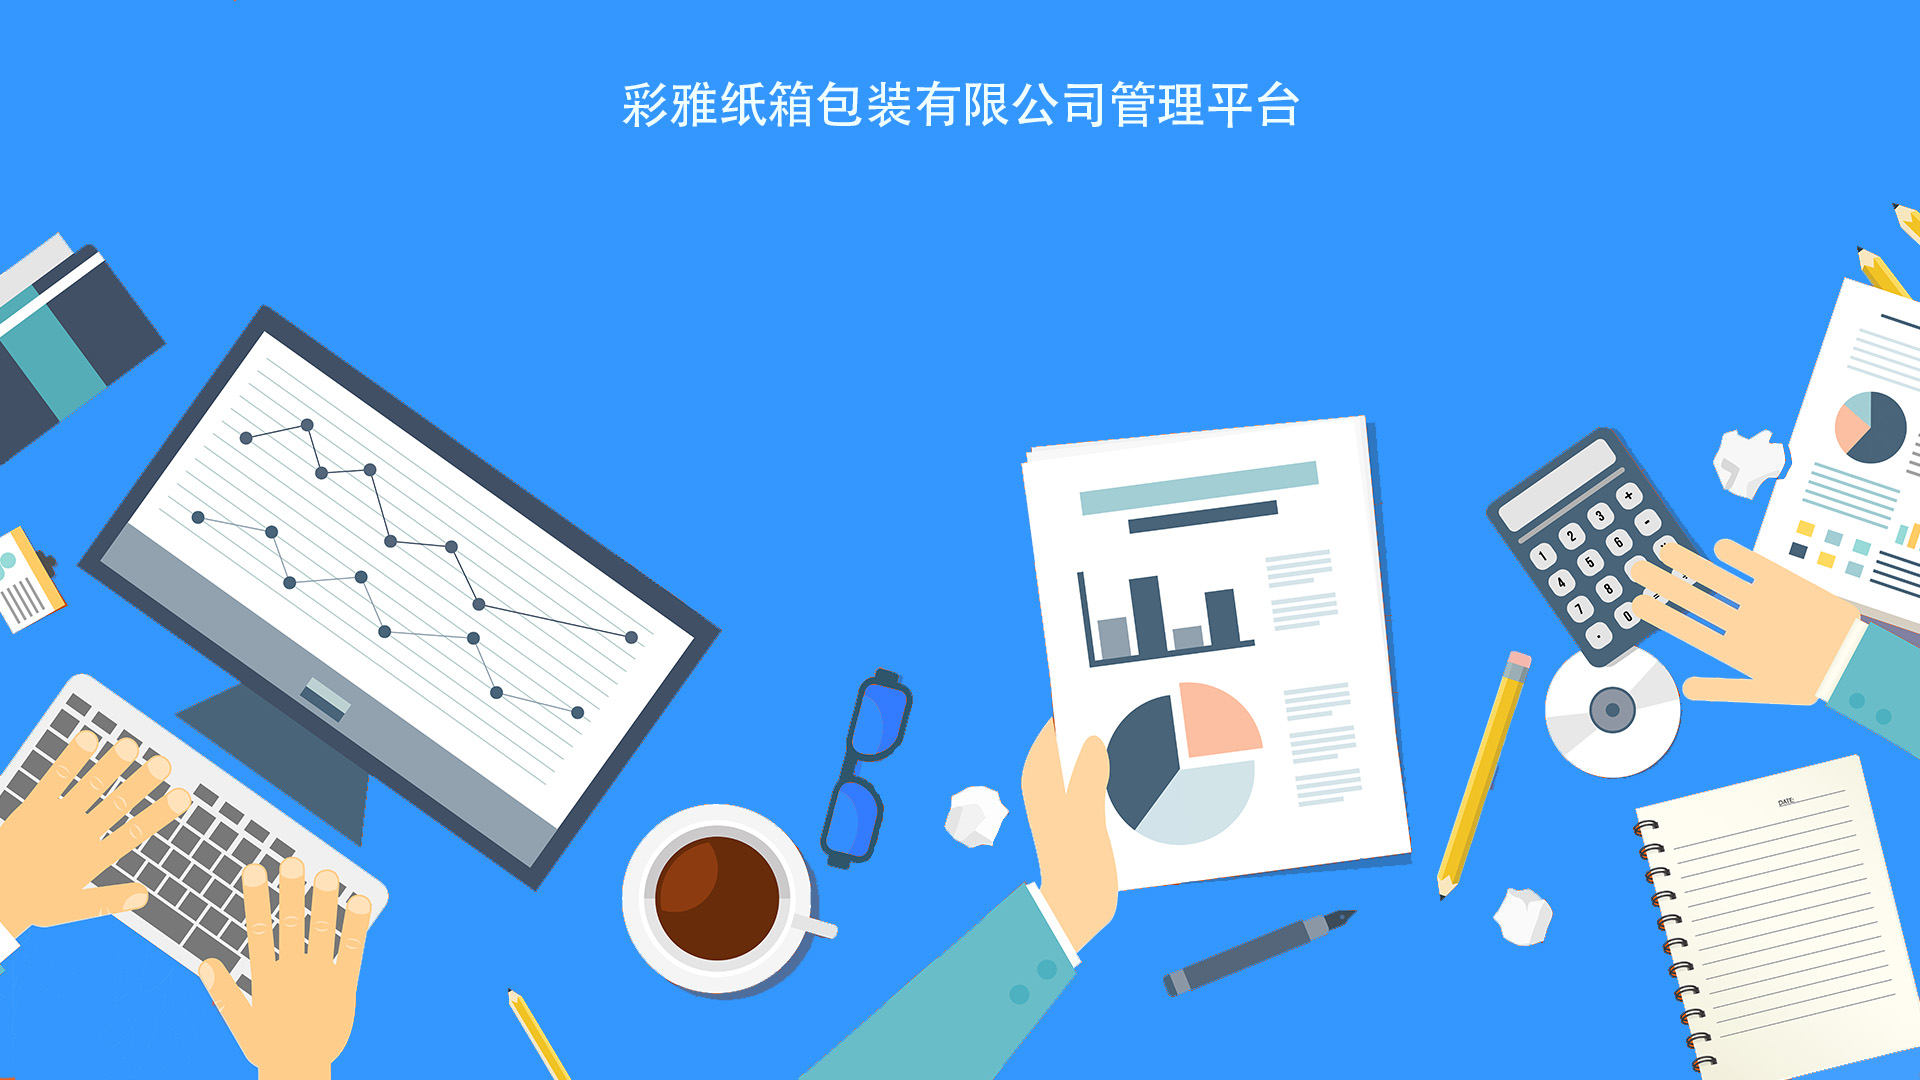
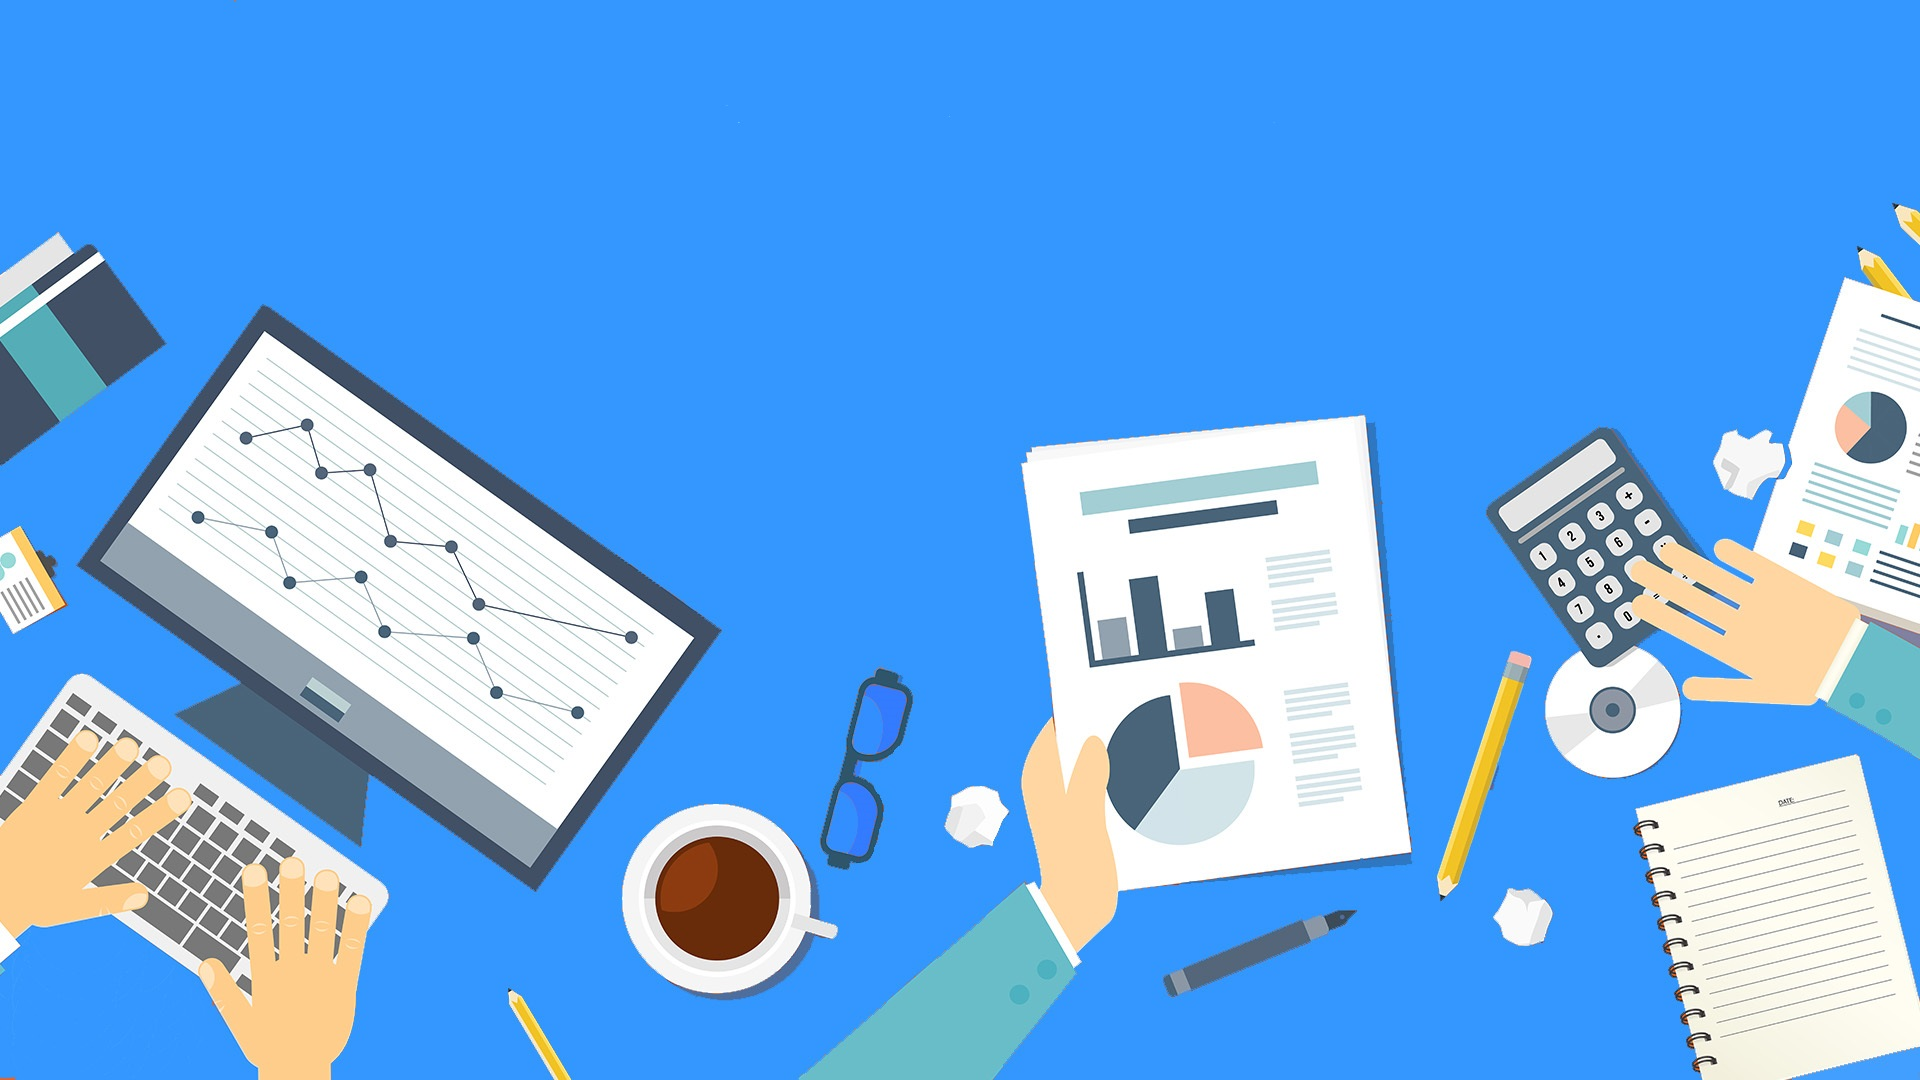
2123

diff --git a/src/views/layout/index.vue b/src/views/layout/index.vue
@@ -1,9 +1,9 @@
 <template>
-	  <el-container style="padding:20px 20px;">
-		 <!-- <el-header style="background:#fff;"> 
+	  <el-container style="padding:20px 20px;background:#eef1f6;">
+		 <el-header style="background:#fff;"> 
 				<myhead></myhead>	
-			</el-header> -->
-		<!-- <el-container style="margin-top:20px;"> -->
+		</el-header>
+		<el-container style="margin-top:20px;">
 			<el-aside width='200px' :style="{'max-height':maxHeight+'px','background':'#fff'}">
 				<!-- <div :style="{'height':maxHeight+'px','width':'190px'}"> -->
 					<!-- <el-scrollbar id="scorll" :style='{"height":maxHeight+"px"}'> -->
@@ -12,19 +12,20 @@
 				<!-- </div> -->
 				
 			</el-aside>
-		
-	    <el-main style="background:#eef1f6;padding:0 15px 0 20px;min-width:1125px;" :style="{'height':maxHeight+'px'}">
-			<el-scrollbar id="scorll" :style='{"height":maxHeight+"px"}'>
-			<el-header style="background:#fff;"> 
-				<myhead></myhead>	
-			</el-header>
-			<transition name="el-fade-in-linear">
-				<router-view   style="background:#fff;padding:20px;margin-top:20px;"/>
-				
-			</transition>
-			</el-scrollbar>
-		</el-main>
-		<!-- </el-container> -->
+		<el-container>
+			<el-main style="padding:0 0px 0 20px;min-width:1125px;" :style="{'height':maxHeight+'px'}">
+				<el-scrollbar id="scorll" :style='{"height":maxHeight+"px"}' style="background:#fff;">
+				<!-- <el-header style="background:#fff;"> 
+					<myhead></myhead>	
+				</el-header> -->
+				<transition name="el-fade-in-linear">
+					<router-view   style="background:#fff;padding:20px"/>
+					
+				</transition>
+				</el-scrollbar>
+			</el-main>
+			</el-container>
+		</el-container>
 			
 	  </el-container>
 <!-- <div class="warpBox">
@@ -50,7 +51,7 @@ export default {
 	mounted(){
 		let size = document.documentElement.clientHeight;
 		console.log(size);
-		this.maxHeight = Number(size)-40;
+		this.maxHeight = Number(size)-120;
 	},
 	data(){
 		return{

diff --git a/src/components/head/index.vue b/src/components/head/index.vue
@@ -1,8 +1,15 @@
 <template>
     <div class="warp">
-        <div style="flex:1"></div>
+        <div style="flex:1" class="center">
+            <div style="width:60px;height:60px;">
+                <img src="../../images/icon.jpg" >
+            </div>
+            <div style="flex:1;font-width:600;font-size:32px;letter-spacing:5px;color:#409eff;">
+               佛山市南海区彩雅纸箱包装有限公司管理平台
+            </div>
+        </div>
         <div class="login">
-            <el-badge :value="notReadNum" :hidden='notReadNum == 0'>
+            <el-badge :value="notReadNum" :hidden='notReadNum == 0' style="margin:0 35px;">
                 <el-dropdown :hide-on-click="false">
                     <span class="el-dropdown-link">
                         信息列表<i class="el-icon-arrow-down el-icon--right"></i>
@@ -28,10 +35,11 @@
                 </el-dropdown>
             </el-badge>
             
-            <div class="avatar">
-                <el-avatar  size="small" src="../../assets/logo.png"></el-avatar>
-            </div>
-            <el-dropdown szie="mini" @command="signOut" >
+            <!-- <div class="avatar">
+                <el-avatar  size="small" src="../../images/icon.jpg"></el-avatar>
+            </div> -->
+            <!-- <div>退出登录</div> -->
+            <el-dropdown szie="mini" @command="signOut" size="medium" >
             <span class="el-dropdown-link">
                 下拉菜单<i class="el-icon-arrow-down el-icon--right"></i>
             </span>

diff --git a/src/views/admin/login/index.vue b/src/views/admin/login/index.vue
@@ -13,8 +13,10 @@
 			</div>
 		</div> -->
 		<img class="backgroundImg" src="@/images/background.jpg" />
+		<div class="center pageTitle">
+			佛山市南海区彩雅纸箱包装有限公司管理平台
+		</div>
 		<div class="login-content">
-			
 			<div class="login-wrap">
 				<ul class="nav">
 					<li :class="{current:tabIndex==0}" @click="tabChange(0)">账号登录</li>
@@ -408,7 +410,18 @@
 		height: 100%;
 		top: 0;
 	}
-
+	.pageTitle{
+		font-size: 44px;
+		width: 80%;
+		font-weight: 600;
+		color: #fff;
+		position: fixed;
+		z-index: 1;
+		transform: translateX(-50%);
+		left: 50%;
+		top: 20%;
+		letter-spacing:5px;
+	}
 	.login {
 		position: relative;
 		width: 100%;
@@ -457,10 +470,10 @@
 		.login-content {
 			position: absolute;
 			background: rgb(51,138,254);
-			height: 250px;
-			top: 50%;
+			height: 350px;
+			top: 30%;
 			left: 50%;
-			transform: translate(-50%,-50%);
+			transform: translateX(-50%);
 			z-index: 10;
 			border-radius: 10px;
 			box-shadow:rgba(35,107,181,.6) 10px 10px 5px;
@@ -468,7 +481,7 @@
 				// position: absolute;
 				// top: 20%;
 				// right: 10%;
-				width: 300px;
+				width: 400px;
 				// background: transparent;
 				
 				z-index: 10;
@@ -512,7 +525,7 @@
 							outline: none;
 							border: none;
 							padding: 0 10px;
-							
+							margin-right: 10px;
 					}
 					.infoInp {
 						margin-top: 10px;
@@ -539,7 +552,7 @@
 
 				.userLogin {
 					width: 260px;
-					margin: 0 auto;
+					margin: 30px auto;
 
 					.forget {
 						

diff --git a/src/views/placeOrder/index.vue b/src/views/placeOrder/index.vue
@@ -336,8 +336,8 @@
           <el-button type="primary" @click="addItem(2)" icon="el-icon-edit">新增</el-button>
         </div>
         <el-form size="mini" inline label-width="120px" style="padding:20px">
-          <el-form-item v-for="(item,index) in other" :key="index">
-            <el-form-item label="费用备注:">
+          <el-form-item v-for="(item,index) in other" :key="index" >
+            <el-form-item label="费用备注:" style='display:block'> 
               <el-select v-model="item.remarkKey" placeholder="请选择">
                 <el-option
                   v-for="item in costRemake"
@@ -348,7 +348,7 @@
               </el-select>
               <!-- <el-input v-model.trim="item." placeholder="备注"></el-input> -->
             </el-form-item>
-            <el-form-item label="费用:" class="form-inline">
+            <el-form-item label="费用:" class="form-inline"  style='display:block'>
               <el-input v-model.number="item.psCost" placeholder="费用"></el-input>
             </el-form-item>
             <div style="text-align: right;">

diff --git a/src/components/nav/index.vue b/src/components/nav/index.vue
@@ -3,10 +3,12 @@
 		
 			<div class="mine-info center">
 				<div class="image center" >
-					<i size="medium" class="el-icon-user-solid"></i>
+					<!-- <i size="medium" class="el-icon-user-solid"></i>
+					 -->
+					 <img src="../../images/icon.jpg" alt="">
 				</div>
 				<div class="info">
-					<div>彩雅包装</div>
+					<div>我的专区</div>
 					<!-- <div>info</div> -->
 				</div>
 			</div>
@@ -260,11 +262,13 @@ import {userMenu} from '@/api/menu'
 		    border-right: 1px solid #e6e6e6;
 		.mine-info{
 			padding: 20px;
+			background: rgb(64, 158, 255);
 			.image{
 				width: 50px;
 				height: 50px;
 				border-radius: 50%;
 				background: rgb(41,151,255) ;
+				overflow: hidden;
 				.el-icon-user-solid{
 					font-size:32px;
 					color:#fff;
@@ -272,7 +276,9 @@ import {userMenu} from '@/api/menu'
 				// overflow: hidden;
 			}
 			.info{
+				color: #fff;
 				padding: 0 5px;
+				font-size: 24px;
 			}
 		}
 		.nav{

diff --git a/src/views/order/index.vue b/src/views/order/index.vue
@@ -86,7 +86,7 @@
         <el-button type="warning"  @click="exportOrder">导出订单</el-button>
       </div>
     <div class="table">
-      <el-table :data="tableData" fit  tooltip-effect="dark" v-loadmore="load" height='500' @selection-change="handleSelectionChange">
+      <el-table :data="tableData" fit  tooltip-effect="dark" v-loadmore="load" height='650' @selection-change="handleSelectionChange">
          <el-table-column
           type="selection"
           width="55">
@@ -443,9 +443,12 @@ export default {
 
     async getList(){
       try {
-        this.loading = true;
-        let res = await orderList(this.searchValue);
+       
+        
         if(this.tableData.length <this.total){
+          this.loading = true;
+          let res = await orderList(this.searchValue);
+           
            res.data.map((item)=>{
             item.visible = false;
             item.visibleF = false;

diff --git a/src/main.js b/src/main.js
@@ -17,10 +17,11 @@ Vue.directive('loadmore', {
     const selectWrap = el.querySelector('.el-table__body-wrapper')
     selectWrap.addEventListener('scroll', function() {
       let sign = 0;
-    
-      // console.log(this.scrollWidth,this.clientWidth,this)
-      const scrollDistance = this.scrollHeight - this.scrollTop - this.clientHeight
-      if (scrollDistance <= sign&&!this.scrollLeft) {
+      // let wSign = Number(this.scrollWidth)-Number(this.scrollLeft)<this.scrollWidth?false:true;
+      // console.log(wSign)
+      const scrollDistance = this.scrollHeight - this.scrollTop - this.clientHeight;
+     
+      if (scrollDistance <= sign) {
         binding.value()
       }
     })

diff --git a/public/index.html b/public/index.html
@@ -17,7 +17,7 @@
       <script src="https://unpkg.com/axios/dist/axios.min.js"></script> -->
 
      
-    <title>彩雅包装管理后台</title>
+    <title>佛山市南海区彩雅纸箱包装有限公司管理平台</title>
   </head>
   <body>
     <noscript>
